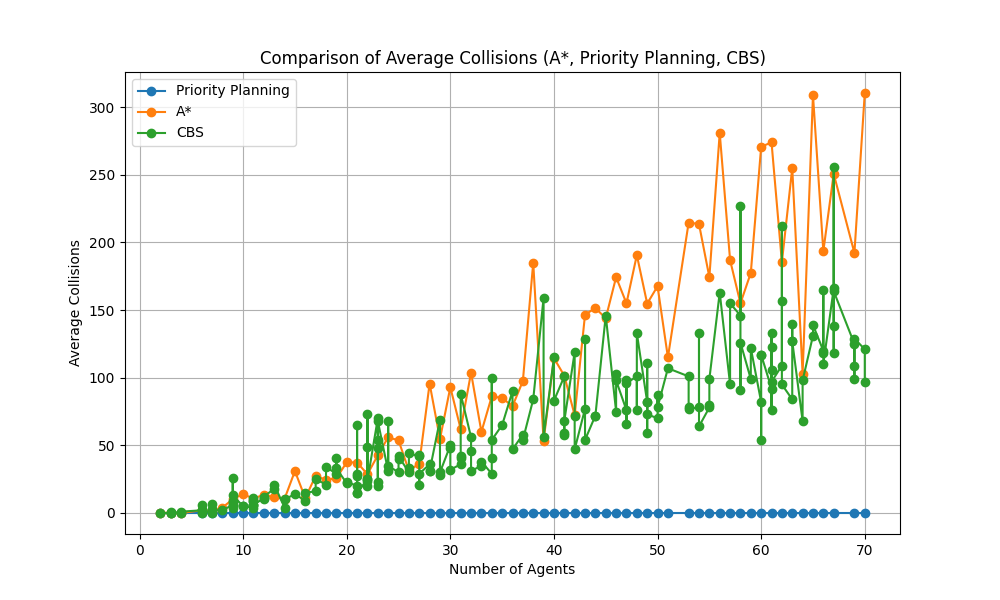
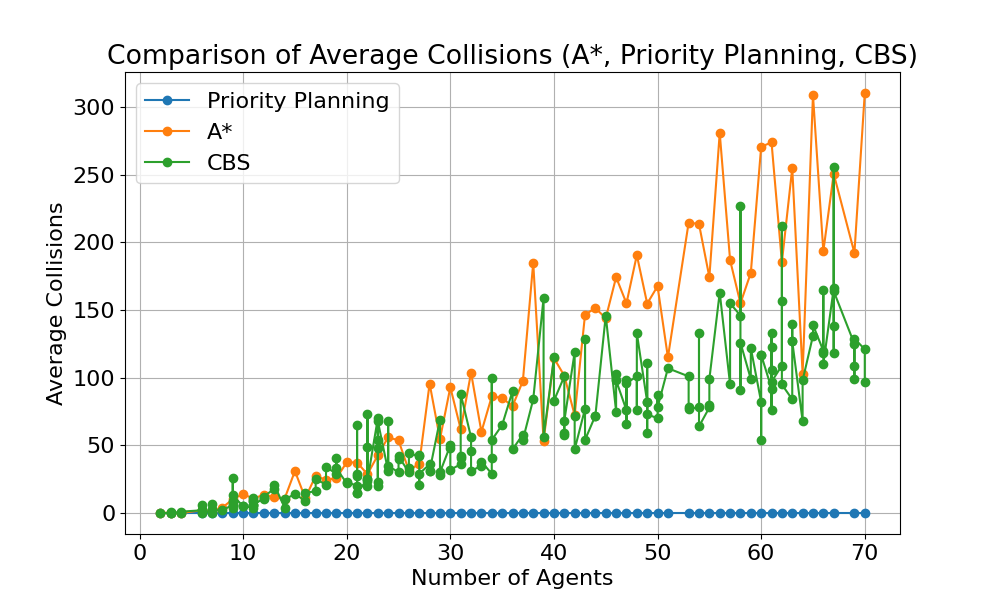
Increased Font Size in Figures

diff --git a/visualization.py b/visualization.py
@@ -11,6 +11,11 @@ priority_data = priority_data.sort_values('Num_Agents')
 a_star_data = a_star_data.sort_values('Num_Agents')
 cbs_data = cbs_data.sort_values('Num_Agents')
 
+# Increase font sizes for the plots
+font = {'size': 16}
+
+plt.rc('font', **font)
+
 # Create a line plot comparing Average Time Taken across three approaches
 plt.figure(figsize=(10, 6))
 plt.plot(priority_data['Num_Agents'], priority_data['Average_Time_Taken'], label='Priority Planning', marker='o')
@@ -38,4 +43,3 @@ plt.grid(True)
 plt.savefig('./Figures/Collisions_Comparison.pdf')
 plt.savefig('./Figures/Collisions_Comparison.png')
 plt.show()
-
